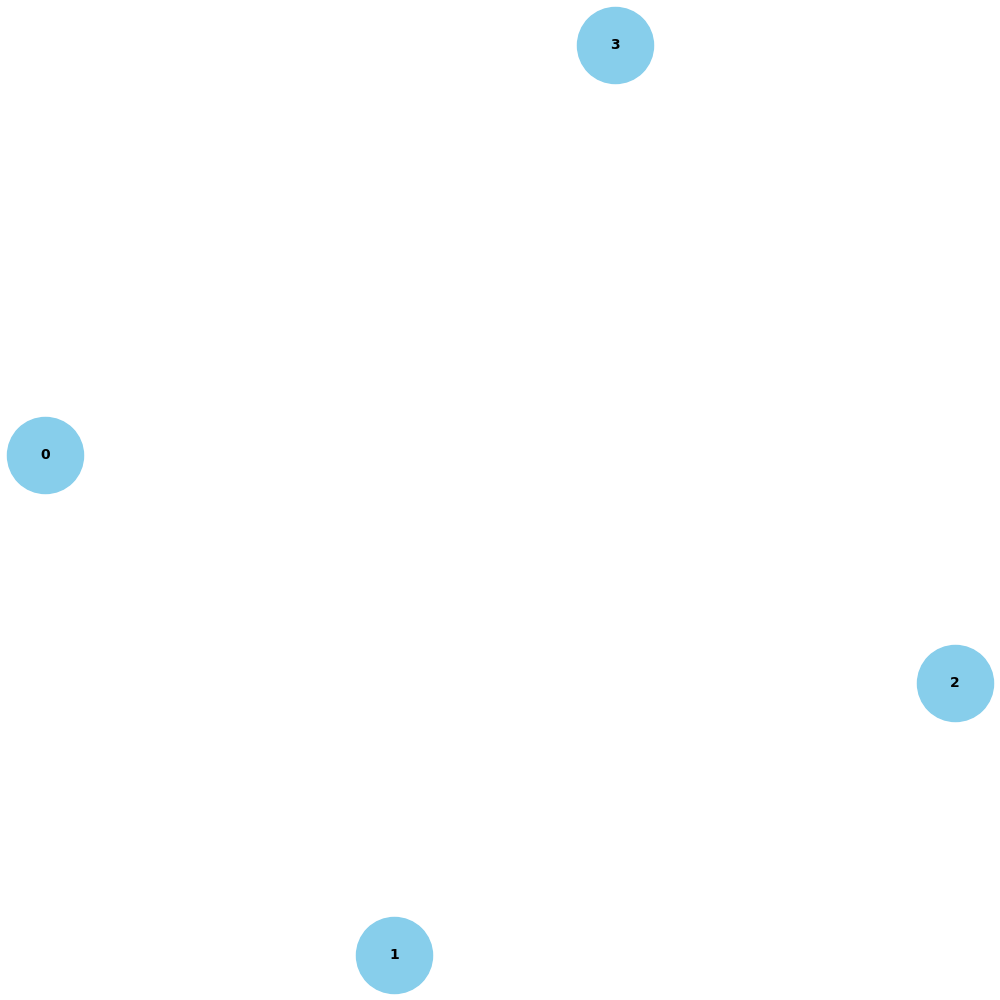
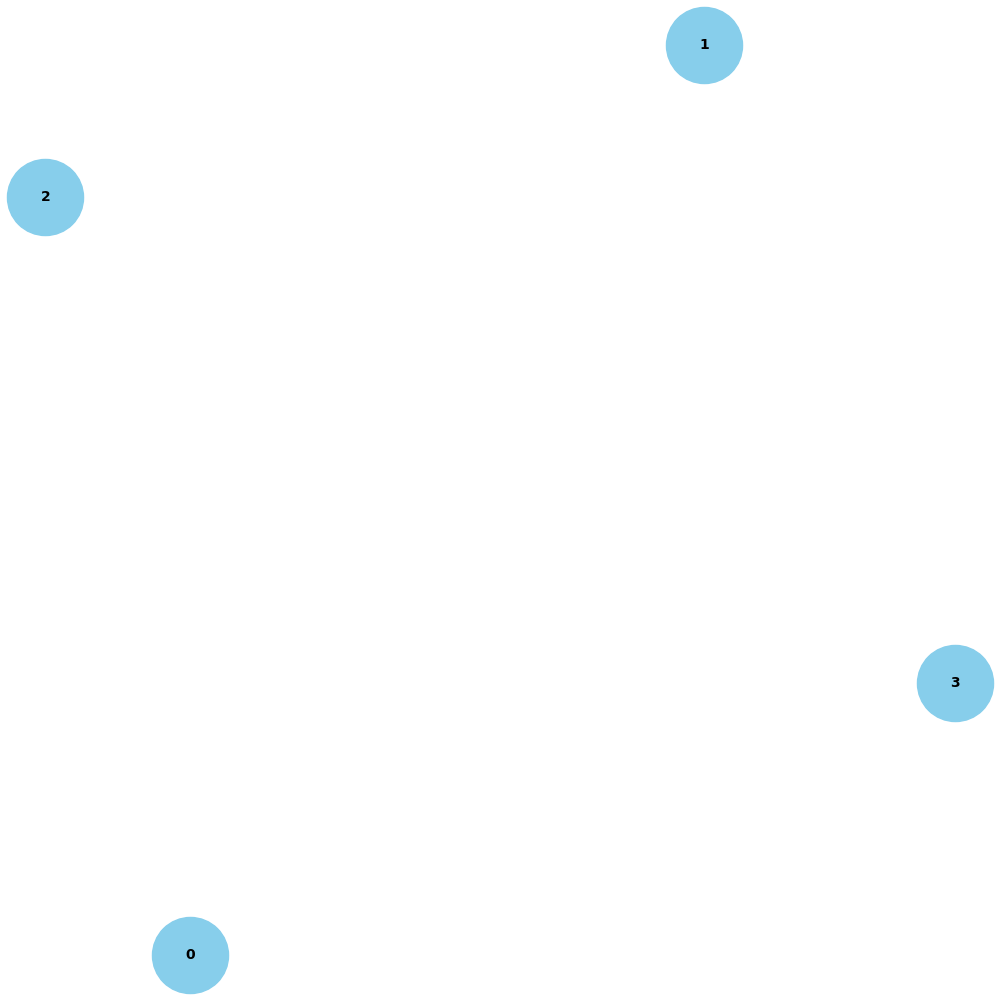
wip, modify add edges k8s to work on k8s nodes

diff --git a/fed_relax.py b/fed_relax.py
@@ -1,5 +1,4 @@
 from kubernetes import client, config
-from kubernetes.client.exceptions import ApiException
 import pickle
 import numpy as np
 from sklearn.tree import DecisionTreeRegressor
@@ -61,26 +60,16 @@ def update_pod_attributes(pod_name, configmap_name, namespace="fed-relax"):
     v1 = client.CoreV1Api()
     pod = v1.read_namespaced_pod(name=pod_name, namespace=namespace)
 
-    # Debug: Print the contents of the Pod
-    # print("Pod object before update:")
-    # print(pod)
-
     # Update pod attributes to reference the ConfigMap
     new_labels = {"configmap-name": configmap_name}
     pod.metadata.labels.update(new_labels)
 
     # Apply the changes
-    try:
-        v1.replace_namespaced_pod(name=pod_name, namespace=namespace, body=pod)
-        # Debug: Print the contents of the Pod
-        print("Pod object after update:")
-        print(pod)
-    except ApiException as e:
-        print(f"Error updating Pod attributes: {e}")
+    v1.replace_namespaced_pod(name=pod_name, namespace=namespace, body=pod)
 
 
 def init_attributes():
-    # Should modify and scale later
+# Should modify and scale later
     num_pods = min(len(list(get_pod_info(label_selector="app=fedrelax-client"))), len(G.nodes()))
 
     # Iterate through the nodes and update Kubernetes pods
@@ -96,7 +85,6 @@ def init_attributes():
             "coords": node_features.tolist(),
             "Xtrain": G.nodes[iter_node]["Xtrain"].tolist(),
             "ytrain": G.nodes[iter_node]["ytrain"].tolist(),
-            "model": DecisionTreeRegressor(),  # Initialize the model attribute
         }
 
         configmap_name = f"node-configmap-{iter_node}"
@@ -110,144 +98,92 @@ def init_attributes():
         print(f"ConfigMap {configmap_name} created/updated successfully.")
 
 
-def add_edges_k8s(graphin, nrneighbors=3, pos='coords', refdistance=1, namespace="fed-relax"):
-    edges = graphin.edges()
-    graphin.remove_edges_from(edges)
+def get_pod_attributes(namespace="fed-relax", label_selector="app=fedrelax-client"):
+    """
+    Retrieve pod attributes from Kubernetes config maps.
+    """
+    # Load Kubernetes configuration
+    config.load_incluster_config()
+    
+    # Create Kubernetes API client
+    api_instance = client.CoreV1Api()
+    
+    # Retrieve list of pods matching the label selector
+    pods = api_instance.list_namespaced_pod(namespace=namespace, label_selector=label_selector)
+    
+    pod_info = {}
+    
+    # Iterate over pods and retrieve attributes from config maps
+    for pod in pods.items:
+        # Get pod name and namespace
+        pod_name = pod.metadata.name
+        
+        # Retrieve config map associated with the pod
+        config_map_name = pod.metadata.labels.get("configmap-name")
+        if config_map_name:
+            # Retrieve config map data
+            config_map = api_instance.read_namespaced_config_map(name=config_map_name, namespace=namespace)
+            
+            # Extract relevant attributes from the config map data
+            coords_str = config_map.data.get("coords")
+            # Remove '[' and ']' characters and then split by ','
+            coords_str = coords_str.strip('[]')
+            coords = [float(coord) for coord in coords_str.split(',')]
+            
+            # Store pod attributes
+            pod_info[pod_name] = {"coords": coords}
+    
+    return pod_info
 
-    # Get pod information from the Kubernetes cluster
-    pod_info = get_pod_info(namespace=namespace, label_selector="app=fedrelax-client")
 
-    # Build up a numpy array tmp_data which has one row for each pod in graphin
-    num_nodes = len(graphin.nodes())
-    node_shape = len(next(iter(graphin.nodes(data=True)))[1].get(pos, []))
-    tmp_data = np.zeros((num_nodes, node_shape))
+def add_edges_k8s(namespace="fed-relax"):
+    """
+    Add edges to the graph based on pod attributes retrieved from Kubernetes config maps.
+    """
+    # Get pod information from Kubernetes cluster
+    pod_info = get_pod_attributes(namespace=namespace)
+    
+    # Initialize empty graph
+    graph = nx.Graph()
+    
+    # Add nodes to the graph with pod attributes
+    for pod_name, attributes in pod_info.items():
+        graph.add_node(pod_name, **attributes)
+    
+    # Calculate distances and add edges based on pod attributes
+    for pod_name1, attr1 in pod_info.items():
+        for pod_name2, attr2 in pod_info.items():
+            if pod_name1 != pod_name2:
+                # Calculate distance between pods based on attributes (e.g., coordinates)
+                distance = np.linalg.norm(np.array(attr1["coords"]) - np.array(attr2["coords"]))
+                
+                # Add edge with weight based on distance
+                graph.add_edge(pod_name1, pod_name2, weight=distance)
+    
+    return graph
 
-    # Iterate over the nodes and their attributes
-    for node_index, node_attr in graphin.nodes(data=True):
-        # Check if the 'coords' attribute exists for the node and has the correct shape
-        if pos in node_attr and len(node_attr[pos]) == node_shape:
-            tmp_data[node_index, :] = node_attr[pos]
-        else:
-            # Handle the case where the attribute is missing or has an incorrect shape for a node
-            print(f"Attribute '{pos}' not found or has incorrect shape for node {node_index}")
-
-    # Create a connectivity matrix using k-neighbors
-    A = kneighbors_graph(tmp_data, nrneighbors, mode='connectivity', include_self=False)
-    A = A.toarray()
-
-    for iter_i in range(num_nodes):
-        for iter_j in range(num_nodes):
-            # Add an edge between nodes i,j if entry A_i,j is non-zero
-            if A[iter_i, iter_j] > 0:
-                graphin.add_edge(iter_i, iter_j)
-                # Use the Euclidean distance between node attribute selected by parameter "pos" to compute the edge weight
-                graphin.edges[(iter_i, iter_j)]["weight"] = np.exp(
-                    -LA.norm(tmp_data[iter_i, :] - tmp_data[iter_j, :], 2) / refdistance)
-
-
+# Function to visualize the graph and save the image
 def visualize_and_save_graph(graph, output_path):
     pos = nx.spring_layout(graph)  # Compute layout for visualization
     plt.figure(figsize=(10, 10))
     nx.draw(graph, pos, with_labels=True, node_size=3000, node_color='skyblue', font_size=10, font_weight='bold')
     plt.title("Graph Visualization")
-    plt.savefig(output_path) 
+    plt.savefig(output_path)  # Save the image to a file
     print(f"Image is successfully saved in {output_path}")
-    plt.show() 
-
-# FedRelax main algorithm
-def fed_relax_k8s(graph, X_test, regparam=0, maxiter=100, namespace="fed-relax"):
-    # Determine the number of data points in the test set
-    testsize = X_test.shape[0]
-
-    # Get the list of pod names
-    pod_names = list(get_pod_info(namespace=namespace, label_selector="app=fedrelax-client"))
-
-    # Iterate over all nodes in the graph
-    for iter_i, node_i in enumerate(graph.nodes(data=False)):
-        if iter_i >= len(pod_names):
-            print(f"Error: Node index {iter_i} is out of range.")
-            continue
-
-        pod_name_i = pod_names[iter_i]
-
-        # Get the model for the current node
-        model = DecisionTreeRegressor()
-
-        # Share predictions with neighbors
-        for node_j in graph[node_i]:
-            if node_j >= len(pod_names):
-                print(f"Error: Node index {node_j} is out of range.")
-                continue
-
-            pod_name_j = pod_names[node_j]
-
-            # Add the predictions of the current hypothesis at node j as labels
-            neighbourpred = graph.nodes[node_j]["model"].predict(X_test).reshape(-1, 1)
-
-            # Update the Xtrain, ytrain, and sample_weight attributes of node_i
-            new_attributes_i = {
-                "Xtrain": np.vstack((graph.nodes[node_i]["Xtrain"], X_test)).tolist(),
-                "ytrain": np.vstack((graph.nodes[node_i]["ytrain"], neighbourpred)).tolist(),
-                "sample_weight": np.vstack((
-                    graph.nodes[node_i]["sample_weight"],
-                    (regparam * len(graph.nodes[node_i]["ytrain"]) / testsize) * graph.edges[(node_i, node_j)]["weight"] * np.ones((len(neighbourpred), 1))
-                )).tolist(),
-                "model": model,  # Include the model attribute
-            }
-
-            # Update the attributes of node_i in the Kubernetes pod
-            update_pod_attributes(pod_name_i, new_attributes_i, namespace)
-
-            # Augment local dataset at node i by a new dataset obtained from the features of the test set
-            graph.nodes[node_i]["Xtrain"] = new_attributes_i["Xtrain"]
-            graph.nodes[node_i]["ytrain"] = new_attributes_i["ytrain"]
-            graph.nodes[node_i]["sample_weight"] = new_attributes_i["sample_weight"]
-
-        # Fit the local model with the augmented dataset and sample weights
-        model.fit(
-            np.array(graph.nodes[node_i]["Xtrain"]),
-            np.array(graph.nodes[node_i]["ytrain"]),
-            sample_weight=np.array(graph.nodes[node_i]["sample_weight"]).reshape(-1)
-        )
-
-        # Update the model attribute in the graph
-        graph.nodes[node_i]["model"] = model
+    plt.show()  # Display the graph
 
 # Initialize pod attributes
 init_attributes()
 
 # Filter the graph to include only the first four nodes
-subgraph_nodes = list(G.nodes())[:3]
+subgraph_nodes = list(G.nodes())[:4]
 subgraph = G.subgraph(subgraph_nodes).copy()
 
 # Call the visualization function before adding edges
 visualize_and_save_graph(subgraph, '/app/init_graph.png')
 
 # Add edges based on the pod coordinates
-add_edges_k8s(subgraph, nrneighbors=2, pos='coords', refdistance=100)
+updated_graph = add_edges_k8s()
 
 # Call the visualization function after adding edges
-visualize_and_save_graph(subgraph, '/app/after_graph.png')
-
-# Generate global test_set
-X_test = np.arange(0.0, 1, 0.1)[:, np.newaxis]
-
-# Get the start time
-st = time.time()
-
-# Run FedRelax on Kubernetes
-fed_relax_k8s(subgraph, X_test, 0.1, 100, namespace="fed-relax")
-
-end = time.time()
-print("runtime of FedRelax ", end - st)
-
-# Compute node-wise train and val errors
-for iter_node in subgraph.nodes():
-    trained_local_model = subgraph.nodes[iter_node]["model"]
-    train_features = subgraph.nodes[iter_node]["Xtrain"]
-    train_labels = subgraph.nodes[iter_node]["ytrain"]
-    subgraph.nodes[iter_node]["trainerr"] = mean_squared_error(train_labels, trained_local_model.predict(train_features))
-    # Assuming you have validation data for each node
-    val_features = subgraph.nodes[iter_node]["Xval"]
-    val_labels = subgraph.nodes[iter_node]["yval"]
-    subgraph.nodes[iter_node]["valerr"] = mean_squared_error(val_labels, trained_local_model.predict(val_features))
+visualize_and_save_graph(updated_graph, '/app/after_graph.png')
